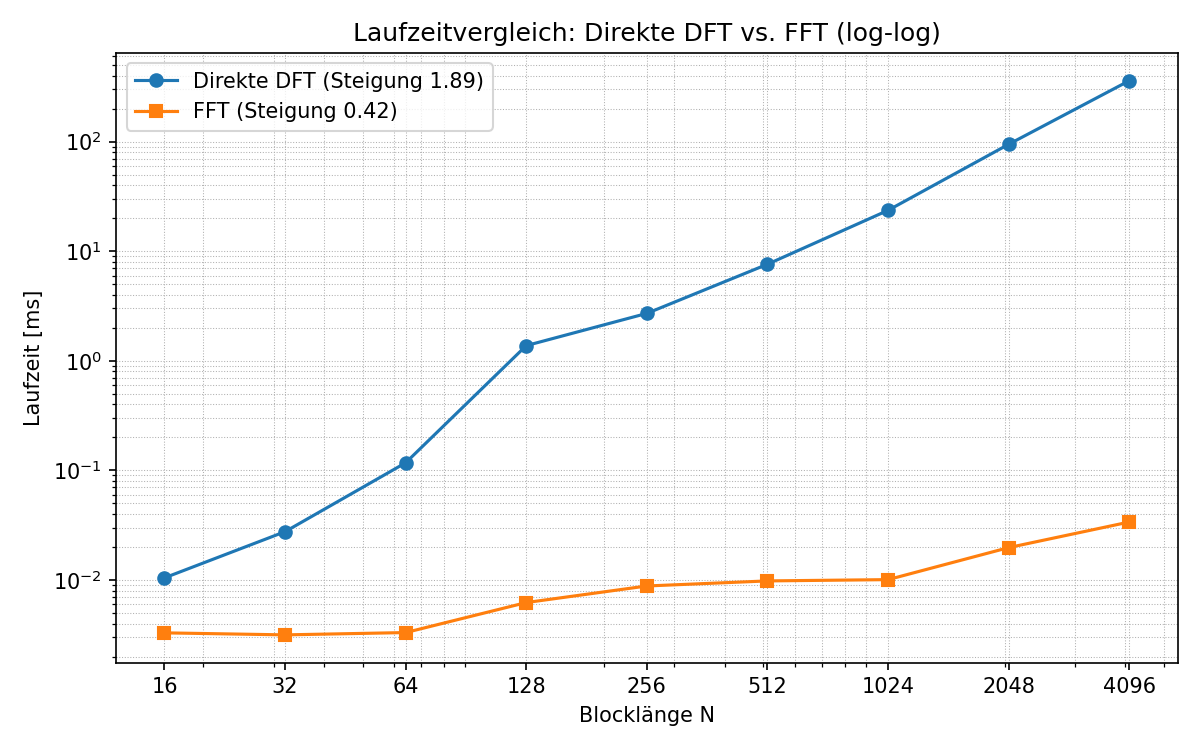
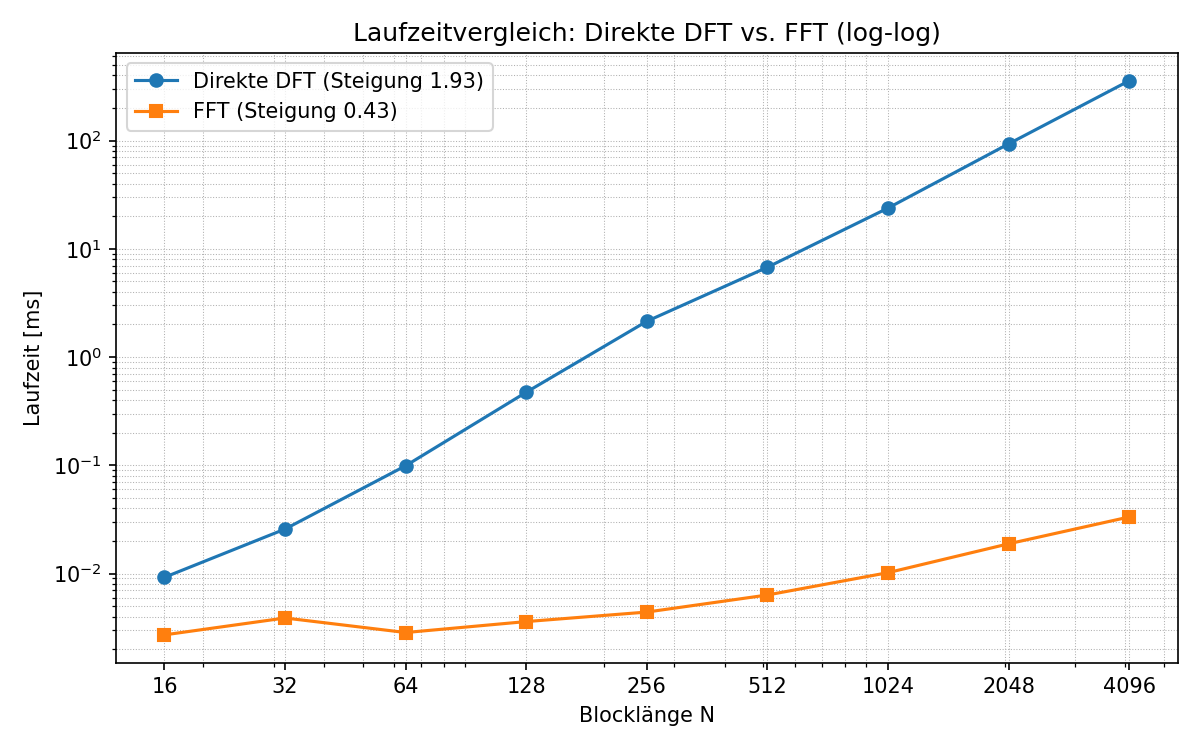
Finn: aufgabe 3

diff --git a/PP2/aufgabe3.py b/PP2/aufgabe3.py
@@ -1,0 +1,255 @@
+import os
+import numpy as np
+import pandas as pd
+import matplotlib.pyplot as plt
+import warnings
+
+warnings.filterwarnings('ignore', category=RuntimeWarning)
+
+# ==============================================================================
+# HILFSFUNKTIONEN
+# ==============================================================================
+
+def baryzentrische_gewichte(x_nodes):
+    """Berechnet die Gewichte w_j für die baryzentrische Interpolation (3a & 3b)."""
+    n = len(x_nodes)
+    w = np.ones(n)
+    for j in range(n):
+        diffs = x_nodes[j] - x_nodes
+        diffs[j] = 1.0  
+        w[j] = 1.0 / np.prod(diffs)
+    return w
+
+def baryzentrische_interpolation(x_nodes, y_nodes, w, x_eval):
+    """Wertet das Polynom an den 2000 Prüfpunkten x_eval aus (3a & 3b)."""
+    diff = x_eval[:, None] - x_nodes[None, :]
+    terme = w / diff
+    zaehler = np.sum(terme * y_nodes, axis=1)
+    nenner = np.sum(terme, axis=1)
+    return zaehler / nenner
+
+def berechne_lebesgue_konstante(x_nodes, w, x_eval):
+    """Berechnet die Lebesgue-Konstante Lambda_n(X) für die Fehlerschranke (nur 3b)."""
+    diff = x_eval[:, None] - x_nodes[None, :]
+    terme = w / diff
+    nenner = np.sum(terme, axis=1)
+    l_basis = terme / nenner[:, None]
+    lambda_x = np.sum(np.abs(l_basis), axis=1)
+    return np.max(lambda_x)
+
+def vandermonde_matrix(x):
+    """Erstellt die Vandermonde-Matrix V(X) (nur 3c)."""
+    n = len(x) - 1
+    V = np.zeros((len(x), n + 1))
+    for j in range(n + 1):
+        V[:, j] = x**j
+    return V
+
+def horner_schema(a, x_eval):
+    """Wertet ein Monom-Polynom mit Koeffizienten a aus (nur 3c)."""
+    p = np.zeros_like(x_eval, dtype=float)
+    for i in range(len(a) - 1, -1, -1):
+        p = p * x_eval + a[i]
+    return p
+
+
+# ==============================================================================
+# HAUPTPROGRAMM
+# ==============================================================================
+
+def main():
+
+    basis_ordner = os.path.dirname(os.path.abspath(__file__))
+    daten_ordner = os.path.join(basis_ordner, "Datensätze-20261110")
+    if not os.path.exists(daten_ordner):
+        daten_ordner = basis_ordner
+
+    # --- GRUNDDATEN EINLESEN ---
+    pruefraster = pd.read_csv(os.path.join(daten_ordner, "pruefraster.csv"), comment="#", sep=r'\s+', names=["E_mV", "T_exakt_C"])
+    E_pruef = pruefraster["E_mV"].values
+    T_exakt_pruef = pruefraster["T_exakt_C"].values
+
+    spalten_stuetz = ["n", "i", "E_mV", "T_kalibrator_C", "T_exakt_C"]
+    df_aequi = pd.read_csv(os.path.join(daten_ordner, "stuetzwerte_aequidistant.csv"), comment="#", sep=r'\s+', names=spalten_stuetz)
+    df_tscheby = pd.read_csv(os.path.join(daten_ordner, "stuetzwerte_tschebyscheff.csv"), comment="#", sep=r'\s+', names=spalten_stuetz)
+    N_werte = np.arange(2, 41)
+
+
+    # ==========================================================================
+    # TEIL 1: AUFGABE 3a - DER INTERPOLATIONSFEHLER (Nur exakte Daten)
+    # ==========================================================================
+    e_interp_aequi = []
+    e_interp_tscheby = []
+
+    for n in N_werte:
+        # Äquidistante Stützstellen (exakte Temperaturen T_exakt_C)
+        daten_aequi = df_aequi[df_aequi["n"] == n]
+        x_aequi = daten_aequi["E_mV"].values
+        y_exakt_aequi = daten_aequi["T_exakt_C"].values 
+        
+        w_aequi = baryzentrische_gewichte(x_aequi)
+        p_exakt_aequi = baryzentrische_interpolation(x_aequi, y_exakt_aequi, w_aequi, E_pruef)
+        
+        # Größte Abweichung zur realen Kurve T_exakt_pruef speichern
+        fehler_a = np.max(np.abs(p_exakt_aequi - T_exakt_pruef))
+        e_interp_aequi.append(fehler_a)
+
+        # Tschebyscheff-Stützstellen (exakte Temperaturen T_exakt_C)
+        daten_tscheby = df_tscheby[df_tscheby["n"] == n]
+        x_tscheby = daten_tscheby["E_mV"].values
+        y_exakt_tscheby = daten_tscheby["T_exakt_C"].values 
+        
+        w_tscheby = baryzentrische_gewichte(x_tscheby)
+        p_exakt_tscheby = baryzentrische_interpolation(x_tscheby, y_exakt_tscheby, w_tscheby, E_pruef)
+        
+        fehler_t = np.max(np.abs(p_exakt_tscheby - T_exakt_pruef))
+        e_interp_tscheby.append(fehler_t)
+
+    # --- Plot für Aufgabe 3a ---
+    plt.figure(1, figsize=(9, 5))
+    plt.semilogy(N_werte, e_interp_aequi, 'o-', label="Äquidistante Stützstellen")
+    plt.semilogy(N_werte, e_interp_tscheby, 's-', label="Tschebyscheff-Stützstellen")
+    plt.axhline(0.1, color='red', linestyle='--', label=r"Ziel: $e_{max} < 0,1^\circ C$")
+    plt.title("Aufgabe 3a: Interpolationsfehler $e_{interp}(n)$")
+    plt.xlabel("Polynomgrad $n$")
+    plt.ylabel("Fehler [°C]")
+    plt.grid(True, which="both", linestyle="--", alpha=0.7)
+    plt.legend()
+    plt.tight_layout()
+
+
+    # ==========================================================================
+    # TEIL 2: AUFGABE 3b - DER DATENFEHLER (Exakt vs. Gerundeter Kalibrator)
+    # ==========================================================================
+    e_daten_aequi = []
+    schranke_aequi = []
+    
+    e_daten_tscheby = []
+    schranke_tscheby = []
+
+    for n in N_werte:
+        # Äquidistante Stützstellen
+        daten_aequi = df_aequi[df_aequi["n"] == n]
+        x_aequi = daten_aequi["E_mV"].values
+        y_exakt_aequi = daten_aequi["T_exakt_C"].values
+        y_kali_aequi = daten_aequi["T_kalibrator_C"].values  # Gerundete Messwerte!
+        
+        w_aequi = baryzentrische_gewichte(x_aequi)
+        p_exakt_aequi = baryzentrische_interpolation(x_aequi, y_exakt_aequi, w_aequi, E_pruef)
+        p_kali_aequi = baryzentrische_interpolation(x_aequi, y_kali_aequi, w_aequi, E_pruef)
+        
+        # Datenfehler = Unterschied zwischen Kalibrator-Polynom und exaktem Polynom
+        e_daten_aequi.append(np.max(np.abs(p_kali_aequi - p_exakt_aequi)))
+        
+        # Theoretische Schranke = Lebesgue-Konstante * 0.005 °C
+        lambda_aequi = berechne_lebesgue_konstante(x_aequi, w_aequi, E_pruef)
+        schranke_aequi.append(lambda_aequi * 0.005)
+
+        # Tschebyscheff-Stützstellen
+        daten_tscheby = df_tscheby[df_tscheby["n"] == n]
+        x_tscheby = daten_tscheby["E_mV"].values
+        y_exakt_tscheby = daten_tscheby["T_exakt_C"].values
+        y_kali_tscheby = daten_tscheby["T_kalibrator_C"].values  # Gerundete Messwerte!
+        
+        w_tscheby = baryzentrische_gewichte(x_tscheby)
+        p_exakt_tscheby = baryzentrische_interpolation(x_tscheby, y_exakt_tscheby, w_tscheby, E_pruef)
+        p_kali_tscheby = baryzentrische_interpolation(x_tscheby, y_kali_tscheby, w_tscheby, E_pruef)
+        
+        e_daten_tscheby.append(np.max(np.abs(p_kali_tscheby - p_exakt_tscheby)))
+        
+        lambda_tscheby = berechne_lebesgue_konstante(x_tscheby, w_tscheby, E_pruef)
+        schranke_tscheby.append(lambda_tscheby * 0.005)
+
+    # --- Plots für Aufgabe 3b (nutzt zusätzlich e_interp aus 3a zum Vergleich) ---
+    fig2, (ax1, ax2) = plt.subplots(1, 2, figsize=(14, 5))
+    
+    ax1.semilogy(N_werte, e_interp_aequi, 'o-', label=r"$e_{interp}$ (aus 3a)")
+    ax1.semilogy(N_werte, e_daten_aequi, 's-', label=r"$e_{daten}$ (Datenfehler)")
+    ax1.semilogy(N_werte, schranke_aequi, 'k--', label=r"Schranke $\Lambda_n \cdot 0,005$")
+    ax1.set_title("Aufgabe 3b: Datenfehler (Äquidistant)")
+    ax1.set_xlabel("Polynomgrad $n$")
+    ax1.set_ylabel("Fehler [°C]")
+    ax1.grid(True, which="both", linestyle="--", alpha=0.7)
+    ax1.legend()
+    
+    ax2.semilogy(N_werte, e_interp_tscheby, 'o-', label=r"$e_{interp}$ (aus 3a)")
+    ax2.semilogy(N_werte, e_daten_tscheby, 's-', label=r"$e_{daten}$ (Datenfehler)")
+    ax2.semilogy(N_werte, schranke_tscheby, 'k--', label=r"Schranke $\Lambda_n \cdot 0,005$")
+    ax2.set_title("Aufgabe 3b: Datenfehler (Tschebyscheff)")
+    ax2.set_xlabel("Polynomgrad $n$")
+    ax2.set_ylabel("Fehler [°C]")
+    ax2.grid(True, which="both", linestyle="--", alpha=0.7)
+    ax2.legend()
+    plt.tight_layout()
+
+
+    # ==========================================================================
+    # AUFGABE 3c - KOEFFIZIENTENFEHLER (Vandermonde vs. Baryzentrisch)
+    # ==========================================================================
+    rel_koeff_aenderung = []
+    e_koeff_liste = []
+    kondition_V = []
+
+    for n in N_werte:
+        # Aufgabe 3c wird laut Blatt nur für Tschebyscheff gemacht
+        daten_tscheby = df_tscheby[df_tscheby["n"] == n]
+        x_tscheby = daten_tscheby["E_mV"].values
+        y_exakt_tscheby = daten_tscheby["T_exakt_C"].values 
+        y_kali_tscheby = daten_tscheby["T_kalibrator_C"].values 
+        
+        # Referenz-Polynom (baryzentrisch mit Kalibratorwerten)
+        w_tscheby = baryzentrische_gewichte(x_tscheby)
+        p_bary_kali = baryzentrische_interpolation(x_tscheby, y_kali_tscheby, w_tscheby, E_pruef)
+
+        # Vandermonde-Matrix aufstellen und Konditionszahl berechnen
+        V = vandermonde_matrix(x_tscheby)
+        kondition_V.append(np.linalg.cond(V, np.inf))
+        
+        try:
+            # Gleichungssystem V*a = y lösen (einmal exakt, einmal Kalibrator)
+            a = np.linalg.solve(V, y_exakt_tscheby)
+            a_tilde = np.linalg.solve(V, y_kali_tscheby)
+            
+            # Relative Änderung der Koeffizienten: ||a_tilde - a||_inf / ||a||_inf
+            rel_aenderung = np.max(np.abs(a_tilde - a)) / np.max(np.abs(a))
+            rel_koeff_aenderung.append(rel_aenderung)
+            
+            # Vandermonde-Polynom auswerten und mit Baryzentrisch vergleichen
+            p_vander_kali = horner_schema(a_tilde, E_pruef)
+            e_koeff = np.max(np.abs(p_vander_kali - p_bary_kali))
+            e_koeff_liste.append(e_koeff)
+            
+        except np.linalg.LinAlgError:
+            rel_koeff_aenderung.append(np.nan)
+            e_koeff_liste.append(np.nan)
+
+    # --- Plots für Aufgabe 3c ---
+    fig3, (ax3, ax4) = plt.subplots(1, 2, figsize=(14, 5))
+    
+    ax3.semilogy(N_werte, rel_koeff_aenderung, 'm^-', label=r"Rel. Änderung $||\tilde{a}-a||_\infty / ||a||_\infty$")
+    ax3.set_title("Aufgabe 3c: Instabilität der Koeffizienten")
+    ax3.set_xlabel("Polynomgrad $n$")
+    ax3.grid(True, which="both", linestyle="--", alpha=0.7)
+    ax3.legend()
+    
+    ax4.semilogy(N_werte, e_koeff_liste, 'rD-', label=r"$e_{koeff}$ (Polynomfehler)")
+    ax4.set_xlabel("Polynomgrad $n$")
+    ax4.set_ylabel("Fehler [°C]", color='red')
+    ax4.tick_params(axis='y', labelcolor='red')
+    ax4.grid(True, which="both", linestyle="--", alpha=0.7)
+    
+    ax4_twin = ax4.twinx()
+    ax4_twin.semilogy(N_werte, kondition_V, 'k--', label=r"Kondition $\kappa_\infty(V(X))$")
+    ax4_twin.set_ylabel("Konditionszahl", color='black')
+    
+    lines_1, labels_1 = ax4.get_legend_handles_labels()
+    lines_2, labels_2 = ax4_twin.get_legend_handles_labels()
+    ax4.legend(lines_1 + lines_2, labels_1 + labels_2, loc='upper left')
+    plt.title("Aufgabe 3c: Koeffizientenfehler & Konditionszahl")
+    plt.tight_layout()
+
+    # Alle Fenster anzeigen
+    plt.show()
+
+if __name__ == "__main__":
+    main()
